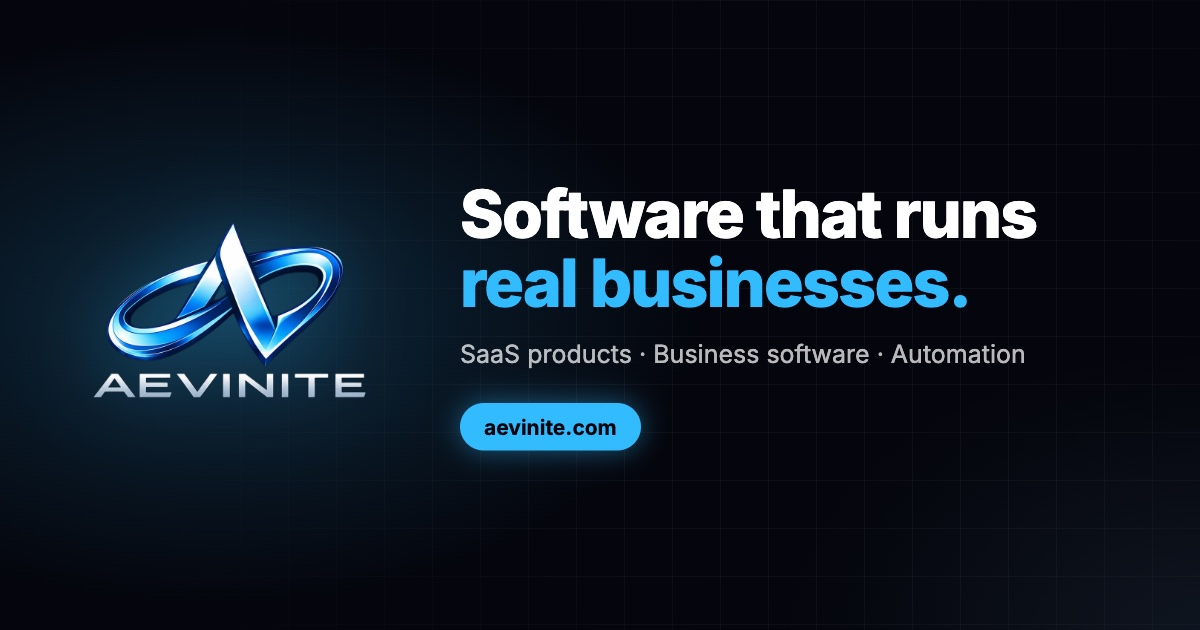
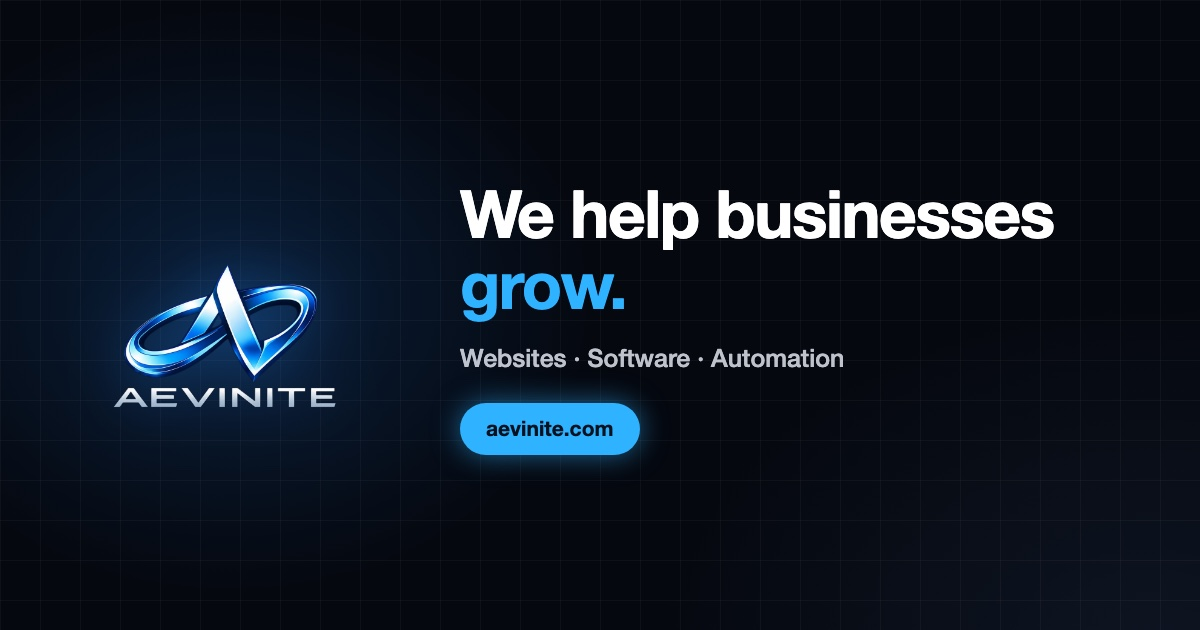
Aevinite's line is now "We help businesses grow"
The owner, 31 Oct 2026: Aevinite is the company that helps businesses grow,
not a company that 'builds software/SaaS'. Aevidine, our SaaS product, is a
separate thing and keeps its own page. Changed the search and share titles,
the description, the company card (slogan, what we do), the hero, About and
Contact pages, llms.txt, README and the link-preview image.

diff --git a/src/app/about/page.tsx b/src/app/about/page.tsx
@@ -11,9 +11,9 @@ import { COMPANY, FOUNDERS, FOUNDER_NAMES, FAQ } from "@/lib/company";
 // The page that answers "who is Aevinite, who founded it, since when" — for people, for Google
 // and for AI assistants (which read the HTML and do not run JavaScript, so everything here is
 // plain server-rendered text: no fade-ins that start invisible).
-const DESCRIPTION = `Aevinite is a software company in Ahmedabad, founded on 28 July 2024 by ${FOUNDER_NAMES}. Meet the founders and read the company story.`;
+const DESCRIPTION = `Aevinite helps businesses grow. Based in Ahmedabad, founded on 28 July 2024 by ${FOUNDER_NAMES}. Meet the founders and read the company story.`;
 const CARD_ALT =
-  "Aevinite: Software that runs real businesses. SaaS products, business software and automation.";
+  "Aevinite: We help businesses grow. Websites, software and automation built around how each business works.";
 
 export const metadata: Metadata = {
   title: "About Aevinite: Founders & Story",
@@ -77,7 +77,7 @@ const FACTS: { label: string; value: string }[] = [
   { label: "Founders", value: FOUNDER_NAMES },
   { label: "Headquarters", value: `${COMPANY.city}, ${COMPANY.region}, ${COMPANY.country}` },
   { label: "Renamed to Aevinite", value: COMPANY.renamedLabel },
-  { label: "What we do", value: "Custom software, SaaS, websites & apps, 3D web, AI automation" },
+  { label: "What we do", value: "We help businesses grow: websites, software and automation" },
   { label: "Contact", value: COMPANY.email },
 ];
 
@@ -94,8 +94,8 @@ const TIMELINE = [
   },
   {
     date: "Today",
-    title: "Software that runs real businesses",
-    text: "Aevinite builds SaaS products, business software, websites, 3D web experiences and AI automation for clients across India.",
+    title: "We help businesses grow",
+    text: "Aevinite helps businesses across India grow, with websites, software and automation built around how each one works. Our own product, Aevidine, runs restaurants.",
   },
 ];
 
@@ -131,14 +131,14 @@ export default function AboutPage() {
             About <span className="text-neon-blue text-glow">Aevinite</span>
           </h1>
           <p className="text-lg md:text-xl text-white/70 font-light leading-relaxed mt-8 max-w-3xl">
-            Aevinite is a software company based in {COMPANY.city}, {COMPANY.region}, {COMPANY.country}.
+            Aevinite is a company based in {COMPANY.city}, {COMPANY.region}, {COMPANY.country}.
             It was founded on {COMPANY.foundedLabel} by{" "}
             <a href={`#${FOUNDERS[0].id}`} className="interactive text-white hover:text-neon-blue transition-colors">{FOUNDERS[0].name}</a>{" "}
             ({FOUNDERS[0].role}) and{" "}
             <a href={`#${FOUNDERS[1].id}`} className="interactive text-white hover:text-neon-blue transition-colors">{FOUNDERS[1].name}</a>{" "}
             ({FOUNDERS[1].role}) under the name {COMPANY.formerName}, and became Aevinite on {COMPANY.renamedLabel}.
-            We build custom business software, SaaS products, websites and apps, 3D web experiences and
-            AI automation: software that runs real businesses.
+            We help businesses grow, with websites, software and automation built around how each
+            business works. Our own product, Aevidine, is restaurant software.
           </p>
 
           <dl className="grid grid-cols-1 sm:grid-cols-2 lg:grid-cols-3 gap-px mt-14 rounded-2xl overflow-hidden border border-white/10 bg-white/10">

diff --git a/src/app/layout.tsx b/src/app/layout.tsx
@@ -6,13 +6,15 @@ import StartProjectModal from "@/components/StartProjectModal";
 import { SITE_URL } from "@/lib/site";
 import { COMPANY, FOUNDERS } from "@/lib/company";
 
-// Search title (Google result + browser tab): what we are + where, brand first. ~55 chars.
-const SEARCH_TITLE = "Aevinite | Custom Software & SaaS Company in Ahmedabad";
+// Search title (Google result + browser tab): brand, then the line we stand for, then where.
+// Owner, 31 Oct 2026: Aevinite is the company that helps businesses grow, not a "software/SaaS
+// company"; Aevidine (our SaaS product) is a separate thing and says so on its own page.
+const SEARCH_TITLE = "Aevinite | We Help Businesses Grow | Ahmedabad";
 // Share title (WhatsApp / LinkedIn / X cards) keeps the tagline the preview image also says.
-const SHARE_TITLE = "Aevinite | Software that runs real businesses";
+const SHARE_TITLE = "Aevinite | We help businesses grow";
 // Names the founders: "who founded Aevinite" is the question people and AI assistants ask most.
 const DESCRIPTION =
-  "Aevinite is an Ahmedabad software company founded by Rishi Nakrani and Jenish Patel, building custom software, SaaS, websites, 3D web and AI automation.";
+  "Aevinite helps businesses grow, with websites, software and automation built around how each business works. Ahmedabad, India; founded by Rishi Nakrani and Jenish Patel.";
 
 // Google ignores the keywords tag for ranking (since 2009); it's kept as an honest list of
 // what we do. What actually ranks is the title, description, page text and the JSON-LD below.
@@ -21,10 +23,10 @@ const KEYWORDS = [
   "Aevinite founders",
   "Rishi Nakrani",
   "Jenish Patel",
+  "help businesses grow",
+  "business growth company Ahmedabad",
   "software company in Ahmedabad",
-  "software development company Ahmedabad",
   "custom software development",
-  "SaaS development company India",
   "website development Ahmedabad",
   "web and app development",
   "business automation",
@@ -95,7 +97,7 @@ const JSON_LD = {
       url: SITE_URL,
       logo: { "@type": "ImageObject", url: `${SITE_URL}/logo.png` },
       image: `${SITE_URL}/opengraph-image.jpg`,
-      slogan: "Software that runs real businesses",
+      slogan: "We help businesses grow",
       description: DESCRIPTION,
       foundingDate: COMPANY.foundingDate,
       foundingLocation: {
@@ -114,9 +116,9 @@ const JSON_LD = {
       },
       areaServed: "IN",
       knowsAbout: [
-        "Custom software development",
-        "SaaS products",
+        "Business growth",
         "Website and app development",
+        "Custom software development",
         "Business process automation",
         "AI integration",
         "3D web experiences",

diff --git a/src/lib/company.ts b/src/lib/company.ts
@@ -49,7 +49,7 @@ export const FOUNDERS: Founder[] = [
     id: "jenish-patel",
     name: "Jenish Patel",
     role: "Co-Founder",
-    bio: "Jenish co-founded Aevinite and works alongside Rishi building the software, SaaS products and web experiences the company delivers to its clients.",
+    bio: "Jenish co-founded Aevinite and works alongside Rishi helping the businesses they work with grow, through the websites, software and automation the company delivers.",
     linkedin: "https://www.linkedin.com/in/jenish-patel-a5608a398/",
     instagram: "https://www.instagram.com/jenish.16/",
     crunchbase: "https://www.crunchbase.com/person/jenish-patel-6ea2",
@@ -64,7 +64,7 @@ export const FOUNDER_NAMES = FOUNDERS.map((f) => f.name).join(" and ");
 export const FAQ: { q: string; a: string }[] = [
   {
     q: "What is Aevinite?",
-    a: "Aevinite is a software company based in Ahmedabad, Gujarat, India. It builds custom business software, SaaS products, websites and apps, 3D web experiences and AI automation for businesses.",
+    a: "Aevinite is a company based in Ahmedabad, Gujarat, India that helps businesses grow, with websites, software and automation built around how each business works. It also makes Aevidine, restaurant software.",
   },
   {
     q: "Who founded Aevinite?",
@@ -80,7 +80,7 @@ export const FAQ: { q: string; a: string }[] = [
   },
   {
     q: "What does the name Aevinite mean?",
-    a: "Aevinite is derived from Aevum, a dimension of existence with a beginning but no end, and echoes the word Infinite, the company's original name. Its tagline is \"The beginning with no end.\"",
+    a: "Aevinite is derived from Aevum, a dimension of existence with a beginning but no end, and echoes the word Infinite, the company's original name. The name means \"the beginning with no end\"; the company's line is \"We help businesses grow.\"",
   },
   {
     q: "What has Aevinite built?",

diff --git a/src/app/contact/layout.tsx b/src/app/contact/layout.tsx
@@ -4,15 +4,15 @@ import type { Metadata } from "next";
 // own title, description and canonical address live here. Without this it repeated the home
 // page's title and told Google it *was* the home page.
 const DESCRIPTION =
-  "Contact Aevinite in Ahmedabad to discuss custom software, a SaaS product, a website or business automation. Email, call or WhatsApp us.";
+  "Contact Aevinite in Ahmedabad to talk about growing your business: a website, software or automation built around how you work. Email, call or WhatsApp us.";
 // The root opengraph-image.jpg / twitter-image.jpg are dropped once a page sets its own
 // openGraph/twitter, so they are named again here (seen in the built HTML, 2026-10-08).
 const CARD_ALT =
-  "Aevinite: Software that runs real businesses. SaaS products, business software and automation.";
+  "Aevinite: We help businesses grow. Websites, software and automation built around how each business works.";
 
 export const metadata: Metadata = {
   // Absolute: the "%s | Aevinite" template made a 21-character title, too thin for a search result.
-  title: { absolute: "Contact Aevinite | Software Company in Ahmedabad" },
+  title: { absolute: "Contact Aevinite | We Help Businesses Grow | Ahmedabad" },
   description: DESCRIPTION,
   alternates: { canonical: "/contact" },
   // A page's openGraph REPLACES the layout's (no deep merge), so the shared fields are repeated.

diff --git a/src/app/aevidine/page.tsx b/src/app/aevidine/page.tsx
@@ -17,7 +17,7 @@ const TITLE = "Aevidine: Restaurant Software for QR Ordering, KOT & Billing";
 const DESCRIPTION =
   "Aevidine is restaurant management software by Aevinite, Ahmedabad: QR code ordering at the table, a kitchen screen and KOT printing, waiter and manager screens, GST bills and owner reports.";
 const CARD_ALT =
-  "Aevinite: Software that runs real businesses. SaaS products, business software and automation.";
+  "Aevinite: We help businesses grow. Websites, software and automation built around how each business works.";
 
 export const metadata: Metadata = {
   title: { absolute: TITLE },
@@ -90,7 +90,7 @@ const FAQ: { q: string; a: string }[] = [
   },
   {
     q: "Who makes Aevidine?",
-    a: `Aevidine is made by Aevinite, a software company in ${COMPANY.city}, ${COMPANY.region}, India, founded by ${FOUNDER_NAMES}.`,
+    a: `Aevidine is made by Aevinite, a company that helps businesses grow, based in ${COMPANY.city}, ${COMPANY.region}, India, founded by ${FOUNDER_NAMES}.`,
   },
   {
     q: "Do guests need to download an app?",

diff --git a/src/components/sections/Hero.tsx b/src/components/sections/Hero.tsx
@@ -98,7 +98,7 @@ export default function Hero() {
         >
           AEVINITE
           {/* Read by Google and screen readers, not shown: the page's main heading says what we do. */}
-          <span className="sr-only"> — custom software, SaaS and automation company in Ahmedabad</span>
+          <span className="sr-only"> — we help businesses grow. Ahmedabad, India</span>
         </motion.h1>
 
         {/* Supporting subtitle — kept after the wordmark */}
@@ -108,7 +108,7 @@ export default function Hero() {
           transition={{ duration: 0.9, ease: "easeOut", delay: 0.6 }}
           className="mt-6 text-sm md:text-base lg:text-lg text-white/55 font-light tracking-wide max-w-xl"
         >
-          We build systems that move businesses forward.
+          We help businesses grow.
         </motion.p>
 
         <motion.button

diff --git a/src/data/guides.ts b/src/data/guides.ts
@@ -255,7 +255,7 @@ export const GUIDES: Guide[] = [
     faq: [
       {
         q: "Which restaurant software is made in Ahmedabad?",
-        a: "Aevidine is restaurant software made in Ahmedabad by Aevinite, a software company founded by Rishi Nakrani and Jenish Patel. It covers QR code ordering, KOT printing, waiter tablets, GST billing and owner reports.",
+        a: "Aevidine is restaurant software made in Ahmedabad by Aevinite, a company that helps businesses grow, founded by Rishi Nakrani and Jenish Patel. It covers QR code ordering, KOT printing, waiter tablets, GST billing and owner reports.",
       },
       {
         q: "Does QR ordering work for takeaway as well as dine-in?",

diff --git a/src/components/sections/StoryIntro.tsx b/src/components/sections/StoryIntro.tsx
@@ -5,7 +5,7 @@ import { motion, useScroll, useMotionValueEvent, useTransform, AnimatePresence }
 
 const steps = [
   { n: "01", title: "We Identify", desc: "We identify bottlenecks, inefficiencies and missed opportunities." },
-  { n: "02", title: "We Build",    desc: "We create systems designed around real business needs." },
+  { n: "02", title: "We Improve",  desc: "We fix what slows you down, with systems designed around real business needs." },
   { n: "03", title: "We Automate", desc: "We eliminate repetitive work through intelligent automation." },
   { n: "04", title: "We Scale",    desc: "We help businesses grow with systems built to last." },
 ];

diff --git a/src/app/guides/page.tsx b/src/app/guides/page.tsx
@@ -12,7 +12,7 @@ const TITLE = "Restaurant Guides: QR Ordering, KOT and GST Bills | Aevinite";
 const DESCRIPTION =
   "Plain guides for restaurant owners in India: how QR code ordering works, what a KOT is, what a GST bill must show, and choosing restaurant software in Ahmedabad.";
 const CARD_ALT =
-  "Aevinite: Software that runs real businesses. SaaS products, business software and automation.";
+  "Aevinite: We help businesses grow. Websites, software and automation built around how each business works.";
 
 export const metadata: Metadata = {
   title: { absolute: TITLE },

diff --git a/src/components/sections/About.tsx b/src/components/sections/About.tsx
@@ -64,8 +64,8 @@ export default function About() {
               transition={{ duration: 0.8, ease: [0.22, 1, 0.36, 1] }}
               className="text-4xl md:text-5xl lg:text-6xl font-bold leading-[1.05]"
             >
-              <span className="text-white">We build </span>
-              <span className="text-neon-blue text-glow">systems.</span>
+              <span className="text-white">We help businesses </span>
+              <span className="text-neon-blue text-glow">grow.</span>
             </motion.h2>
 
             <motion.p

diff --git a/src/app/guides/[slug]/page.tsx b/src/app/guides/[slug]/page.tsx
@@ -14,7 +14,7 @@ import { GUIDES, guidePath } from "@/data/guides";
 // AI crawlers read the HTML and do not run JavaScript. The first paragraph is the direct answer —
 // the part an assistant quotes.
 const CARD_ALT =
-  "Aevinite: Software that runs real businesses. SaaS products, business software and automation.";
+  "Aevinite: We help businesses grow. Websites, software and automation built around how each business works.";
 
 export function generateStaticParams() {
   return GUIDES.map((g) => ({ slug: g.slug }));

diff --git a/README.md b/README.md
@@ -1,6 +1,6 @@
 # aevinite.com
 
-Source of **[aevinite.com](https://www.aevinite.com)**, the website of **Aevinite**: a software company based in Ahmedabad, Gujarat, India, founded on 28 July 2024 by **Rishi Nakrani** (Founder) and **Jenish Patel** (Co-Founder). Aevinite started as *Infinite* and was renamed on 16 June 2026. It builds custom business software, SaaS products, websites and apps, 3D web experiences and AI automation.
+Source of **[aevinite.com](https://www.aevinite.com)**, the website of **Aevinite**: a company that helps businesses grow, based in Ahmedabad, Gujarat, India, founded on 28 July 2024 by **Rishi Nakrani** (Founder) and **Jenish Patel** (Co-Founder). Aevinite started as *Infinite* and was renamed on 16 June 2026. It builds custom business software, SaaS products, websites and apps, 3D web experiences and AI automation.
 
 - About & founders: https://www.aevinite.com/about
 - Contact: https://www.aevinite.com/contact · rishi@aevinite.com
